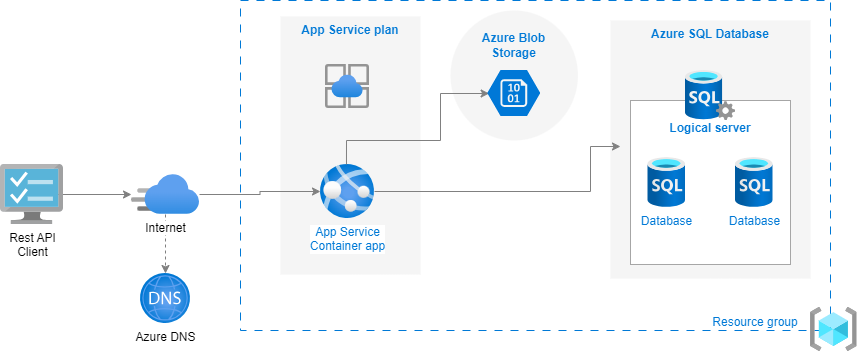
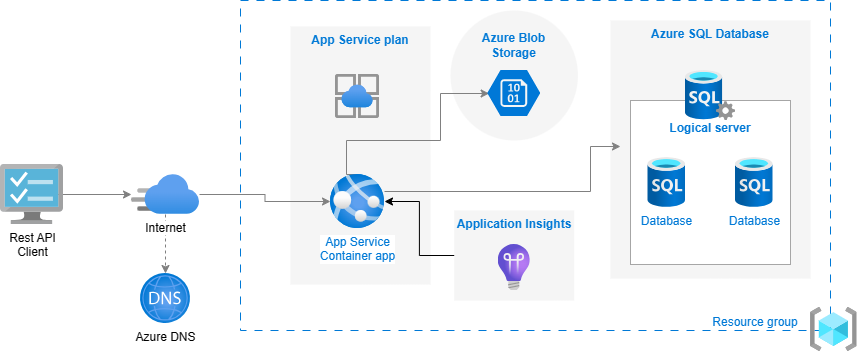
Updated README.md

diff --git a/README.md b/README.md
@@ -1,18 +1,18 @@
-# TechChallenge02 - API Blog de notícias com Onion Architecture
+# TechChallenge03 - API Blog de notícias com teste de unidade e integração
 
-O Tech Challenge 02 engloba o desenvolvimento de API web para um blog de notícias utilizando Onion Architecture com autenticação/autorização através do identity framework. O projeto em si contém uma aplicação Web API desenvolvida em ASP.NET 7 , na qual, é responsável por toda a lógica da aplicação e comunicação com o banco de dados. O projeto também conta com um pipeline de integração e entrega contínua (CI/CD) no Github Actions, de modo de automatizar o processo de implantação de ponta a ponta.
+O Tech Challenge 03 engloba o desenvolvimento de API web para um blog de notícias utilizando Onion Architecture com autenticação/autorização através do identity framework e execução de teste de unidade e integração com XUnit. O projeto em si contém uma aplicação Web API desenvolvida em ASP.NET 7 , na qual, é responsável por toda a lógica da aplicação e comunicação com o banco de dados. O projeto também conta com um pipeline de integração e entrega contínua (CI/CD) no Github Actions, de modo de automatizar o processo de implantação de ponta a ponta. Além de possuir um outro pipeline do azure para automatização dos testes de unidade e integração do projeto.
 
 Abaixo é possível verificar a arquitetura da Applicação no Azure:
 
-![TechChallenge02 Arquitetura](docs/Architecture.png)
+![TechChallenge03 Arquitetura](docs/Architecture.png)
 
-O projeto contem um Container Web App que é alimentado por um instância de uma imagem gerada a partir do build da aplicação contida nesse repositório através do continuos integration. A imagem pode ser obtita a partir do link `cmellorepository.azurecr.io/cmellorepository/techchallenge02:latest` que está amarzenada em um Container Register do Azure.
+O projeto contem um Container Web App que é alimentado por um instância de uma imagem gerada a partir do build da aplicação contida nesse repositório através do continuos integration. A imagem pode ser obtita a partir do link `cmellorepository.azurecr.io/cmellorepository/techchallenge03:latest` que está amarzenada em um Container Register do Azure.
 
-A Web App também é conectada com o Azure SQL para armazenar os dados da API como os artigos, categorias, autores e usuários. Podendo assim, fazer todos o controle de usuários e artigos do sistema.
+A Web App também é conectada com o Azure SQL para armazenar os dados da API como os artigos, videos, autores e usuários. Podendo assim, fazer todos o controle de usuários e artigos do sistema.
 
 Para conexão com o banco de dados foi utilizado Entity Framework Core e desenvolvido o CRUD com Repository pattern que pode ser encontrado sua implementação na camada de Infraestrutura. Design do banco de dados:
 
-![TechChallenge02 Banco de Dados](docs/EntityAndDBArchitecture.png)
+![TechChallenge03 Banco de Dados](docs/EntityAndDBArchitecture.png)
 
 O banco de dados conta com as tabelas descritas acima mais as tabelas geradas para o controle de autenticação e autorização de usuáridos do IDENTITY Framework.
 
@@ -20,7 +20,7 @@ O banco de dados conta com as tabelas descritas acima mais as tabelas geradas pa
 
 Confome dito acima, foi utilizado o padrão de arquitetura cebola também chamada de arquitetura limpa. A arquitetura "cebola" é um conceito de design para sistemas de software que enfatiza camadas de abstração e isolamento. Inspirada em uma cebola com várias camadas, cada camada representa um nível de funcionalidade e depende das camadas internas para funcionar. Isso promove a modularidade, reusabilidade e manutenção do sistema, permitindo que cada camada se concentre em uma responsabilidade específica. Uma jeito comum de visualizar essa arquitetura é através de uma série de circulos concentricos similares a uma cebola conforme pode ser visto na imagem abaixo :
 
-![TechChallenge02 Banco de Dados](docs/OnionArchitecture.png)
+![TechChallenge03 Arquitetura Cebola](docs/OnionArchitecture.png)
 
 Por tanto a estrutura do projeto ficou dividido conforme demonstrado abaixo:
 
@@ -37,31 +37,31 @@ Por tanto a estrutura do projeto ficou dividido conforme demonstrado abaixo:
 
 ## CI/CD
 
-Esse projeto possui um pipeline de integração e entrega continua (CI/CD) com gitbuh action , de modo de automatizar o processo. O fluxo desse processo pode ser visto na imagem abaixo:
+Esse projeto possui um pipeline de integração e entrega continua (CI/CD) com github action , de modo de automatizar o processo. além disso, apresenta um segundo azure pipeline para os testes de integração e unidade do projeto. O fluxo desse processo pode ser visto na imagem abaixo:
 
-![TechChallenge02 Banco de Dados](docs/ContinuosIntegrationProcess.png)
+![TechChallenge03 CI&CD](docs/ContinuosIntegrationProcess.png)
 
 1. O desenvolvedor faz um push para o repositório do github na branch master.
-2. O pipeline do GitHub Actions é iniciado.
-3. Inicia-se o processo de build do projeto e após o termino é criado uma imagem de container com o resultado do build.
+2. O pipeline do GitHub Actions e Azure pipelines é iniciado.
+3. Inicia-se o processo de build do projeto e após o termino é criado uma imagem de container com o resultado do build e é executado os testes de integração e unidade.
 4. Essa nova imagem é carregada no Azure Container Register.
-5. Com a nova imagem no ACR, é feito o deploy da mesma em um Web Web For Container.
+5. Com a nova imagem no ACR, é feito o deploy da mesma em um Web For Container.
 6. API atualizada e disponibilizada para o usuário.
 
 ## Aplicação
 
 O Projeto não possue front end, sendo assim, foi disponibilizado somente os endpoint para comunicação através de alguma ferramente de mercado que faça requisições HTTP ou swagger.
-São disponibilizados 4 endpoints na api: Article, Author, Category e User, sendo que para utilizar os três primeiros endpoints é necessário estar autenticado na API com JWT.
-Então para qualquer requisição que for feita nesses três endpoints (Article,Author e Category) é necessário enviar no header da requisição um Bearer Token que será disponibilizado ao autenticar o usuário no endpoint `/api/User/Login`.
+São disponibilizados 4 endpoints na api: Article, Author, Video, User e Upload, sendo que para utilizar os três primeiros endpoints é necessário estar autenticado na API com JWT.
+Então para qualquer requisição que for feita nesses três endpoints (Article,Author e Video) é necessário enviar no header da requisição um Bearer Token que será disponibilizado ao autenticar o usuário no endpoint `/api/User/Login`.
 
-Para fazer o cadastro de um artigo é necessário antes de criado pelo menos um autor e categoria para ser enviada na requisição.
+Para fazer o cadastro de um artigo é necessário antes de criado pelo menos um autor para ser enviada na requisição.
 
 ### URL de Acesso
 
 Para testar a API sem ter que criar toda a infraestrutura, estou disponibilizando as URLs de acesso temporariamente nos links abaixo:
 
-1. URL `https://techchallenge02.azurewebsites.net/api/<Colocar_final_endpoint>` para acesso com Postman , etc.
-2. URL `https://techchallenge02.azurewebsites.net/swagger/index.html` para acesso via Swagger.
+1. URL `https://techchallenge03.azurewebsites.net/api/<Colocar_final_endpoint>` para acesso com Postman , etc.
+2. URL `https://techchallenge03.azurewebsites.net/swagger/index.html` para acesso via Swagger.
 
 ### Métodos
 
@@ -78,6 +78,7 @@ Requisições para a API devem seguir os padrões:
 | Código | Descrição                                                          |
 | ------ | ------------------------------------------------------------------ |
 | `200`  | Requisição executada com sucesso (success).                        |
+| `201`  | Criação o objeto com sucesso                                       |
 | `400`  | Erros de validação ou os campos informados não existem no sistema. |
 | `401`  | Usuário não autorizado.                                            |
 | `500`  | EndPoint não encontrado,                                           |
@@ -116,17 +117,26 @@ Responsável pelo controle de autores da API. Esse endpoint deve ser utilizado s
 | `PUT`    | [api/Author]      | Atualiza alguma informação do autor. | id,name,email     | ---------------- |
 | `DELETE` | [api/Author/{id}] | Delete o autor informado na URL.     | ----------------- | ---------------- |
 
-### Controller Category
+### Controller Video
 
 Responsável pelo controle de categorias da API. Esse endpoint deve ser utilizado somente depois de estar autenticado e deve ser passado no header da requisição o token do usuário.
 
-| Método   | URL                 | Descrição                                | Parâmetros [JSON]   | Retorno            |
-| -------- | ------------------- | ---------------------------------------- | ------------------- | ------------------ |
-| `POST`   | [api/Category]      | Cadastra um novo categoria.              | name,description    | ----------------   |
-| `GET`    | [api/Category]      | Retorna todas as categorias.             | ------------------- | Lista de categoria |
-| `GET`    | [api/Category/{id}] | Retorna a categoria informado na URL.    | ------------------- | Categoria          |
-| `PUT`    | [api/Category]      | Atualiza alguma informação da categoria. | id,name,description | ----------------   |
-| `DELETE` | [api/Category/{id}] | Delete a categoria informado na URL.     | ------------------- | ----------------   |
+| Método   | URL                 | Descrição                         | Parâmetros [JSON]   | Retorno            |
+| -------- | ------------------- | ----------------------------------| ------------------- | ------------------ |
+| `POST`   | [api/Video]      | Cadastra um novo video.              | name,description    | ----------------   |
+| `GET`    | [api/Video]      | Retorna todos as videos.             | ------------------- | Lista de categoria |
+| `GET`    | [api/Video/{id}] | Retorna a video informado na URL.    | ------------------- | Categoria          |
+| `PUT`    | [api/Video]      | Atualiza alguma informação da video. | id,name,description | ----------------   |
+| `DELETE` | [api/Video/{id}] | Delete a video informado na URL.     | ------------------- | ----------------   |
+
+### Controller Upload
+
+Responsável pelo upload de videos e imagens no azure BlogStorage. Esse endpoint deve ser utilizado somente depois de estar autenticado e deve ser passado no header da requisição o token do usuário.
+
+| Método   | URL                 | Descrição                                              | Parâmetros [IFormFile] | Retorno            |
+| -------- | ------------------- | ------------------------------------------------------ | ---------------------- | ------------------ |
+| `POST`   | [api/Upload]      | Faz o upload de uma nova imagem ou video um novo video.  | Image/Video            | ----------------   |
+
 
 ## Pré-Requisitos
 
@@ -138,14 +148,25 @@ Execute os próximos passos somente se for criar uma infraestrutura nova ou roda
 
 1. Necessário criar manualmente um WebApp for Container no Azure.
 2. Criar um Azure SQL para criação do banco de dados.
+3. Criar o azure Blog Storage com os devidos containers.
+4. Criar o application insights.
 
 ### Configuração SQL Server
 
-1. Verifique se sua connection string in `Api/appsetting.json` aponta para o seu banco de dados.
+1. Verifique se sua connection string in `Api/appsetting.json` aponta para o banco de dados, azure blob storage e application insights.
    ```
-     "ConnectionStrings": {
-        "SqlConnection": "<SQL_DB_AZURE_CONNECTION_STRING>"
+      "ConnectionStrings": {
+         "SqlConnection": "<SQL_DB_AZURE_CONNECTION_STRING>"
       },
+      "AzureStorage": {
+         "ConnectionString": "<ADD_AZURE_BLOB_STORAGE_CONNECTION_STRING>",
+         "ImageContainerName": "images-container",
+         "VideoContainerName": "videos-container"
+      },
+      "ApplicationInsights": {
+         "InstrumentationKey": "<ADD_APPLICATION_INSIGHTS_KEY>"
+      },
+
    ```
 2. Verifique se EF Tool já está instalado.
    ```
